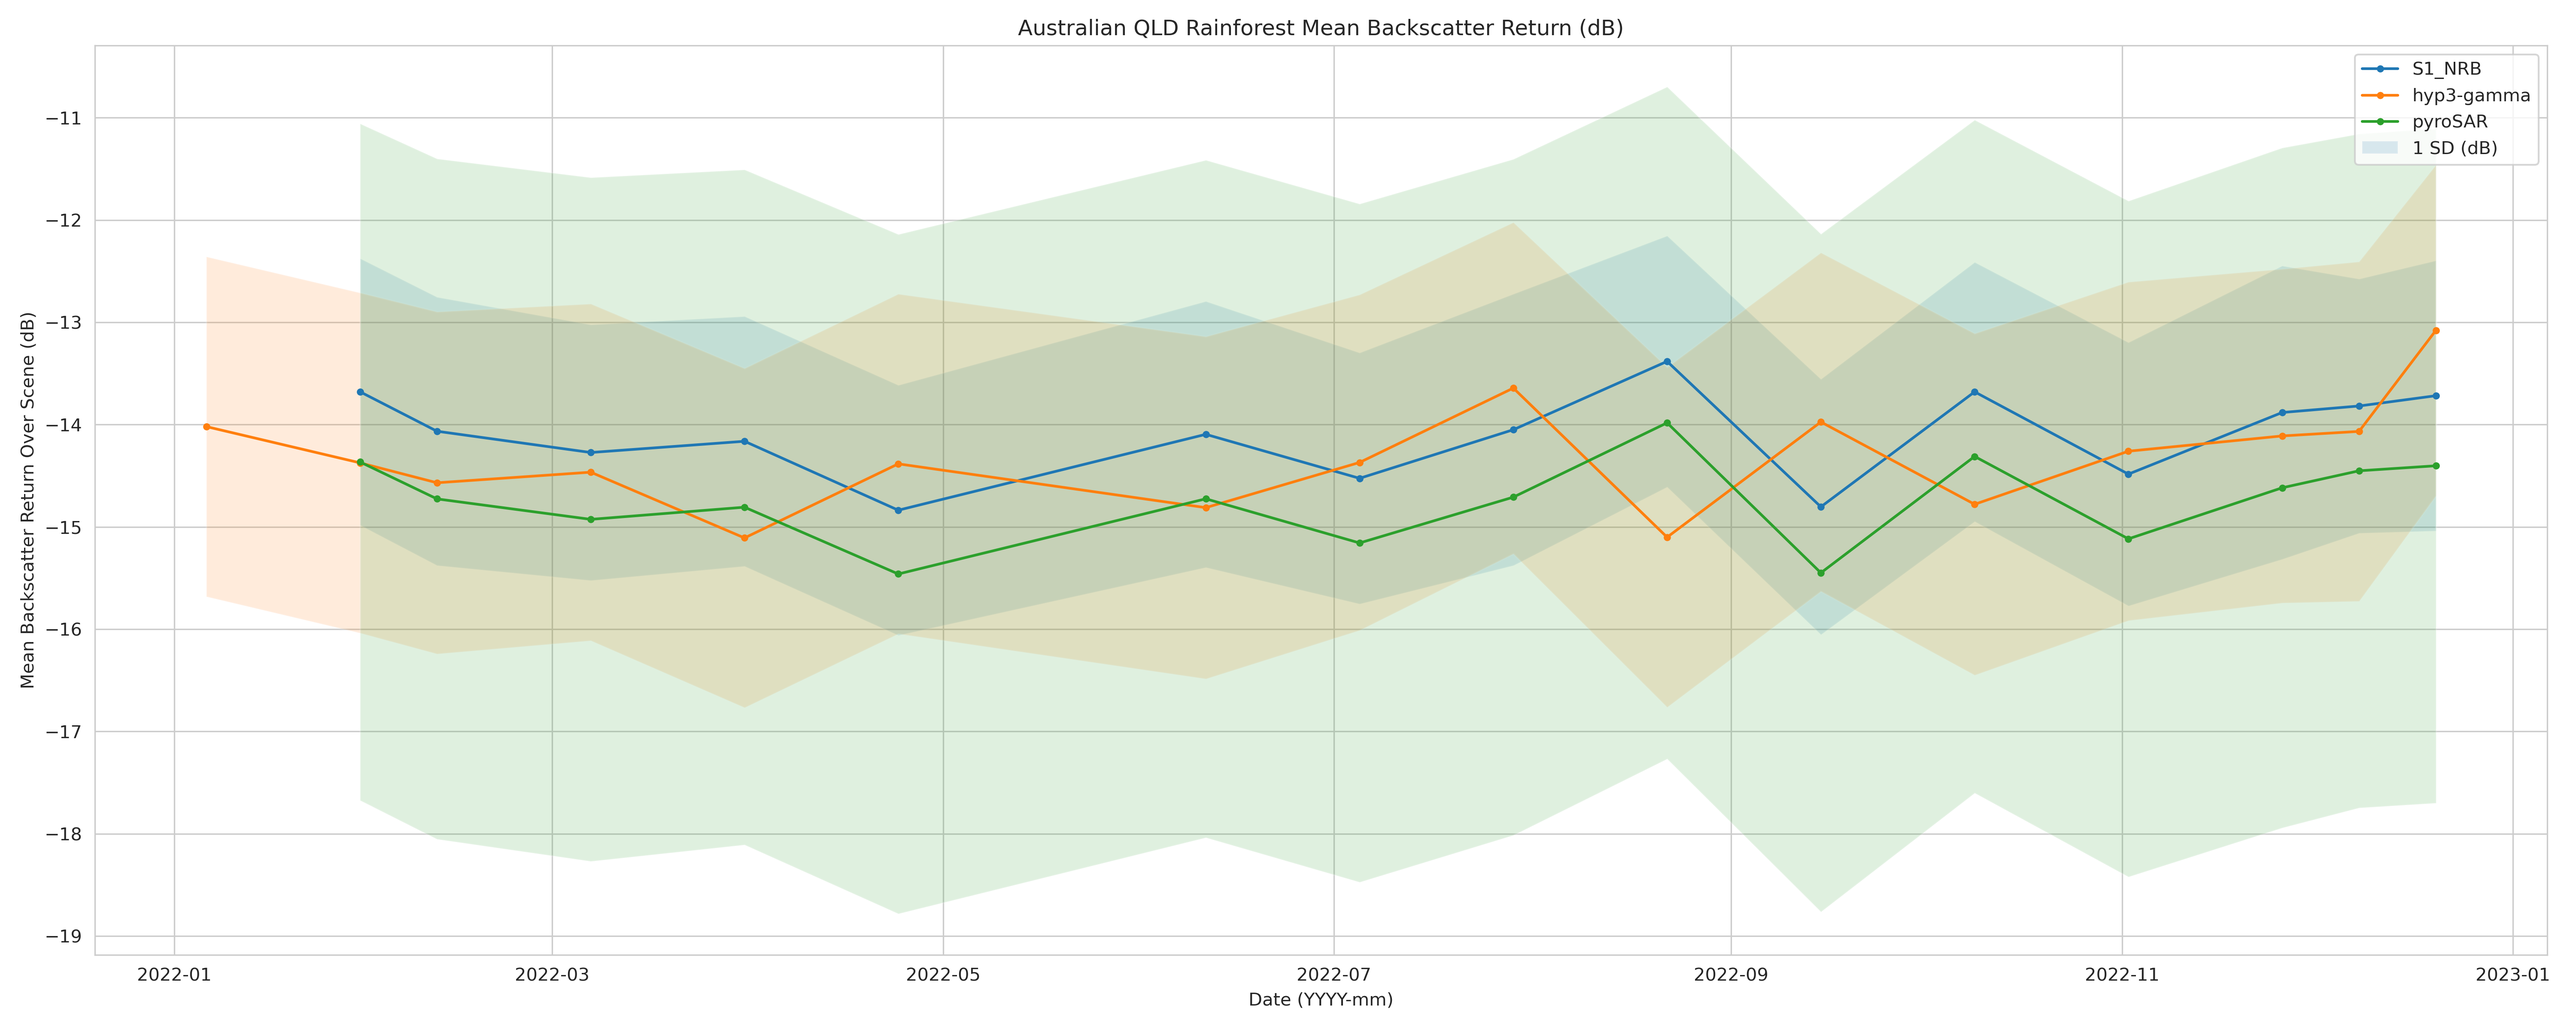
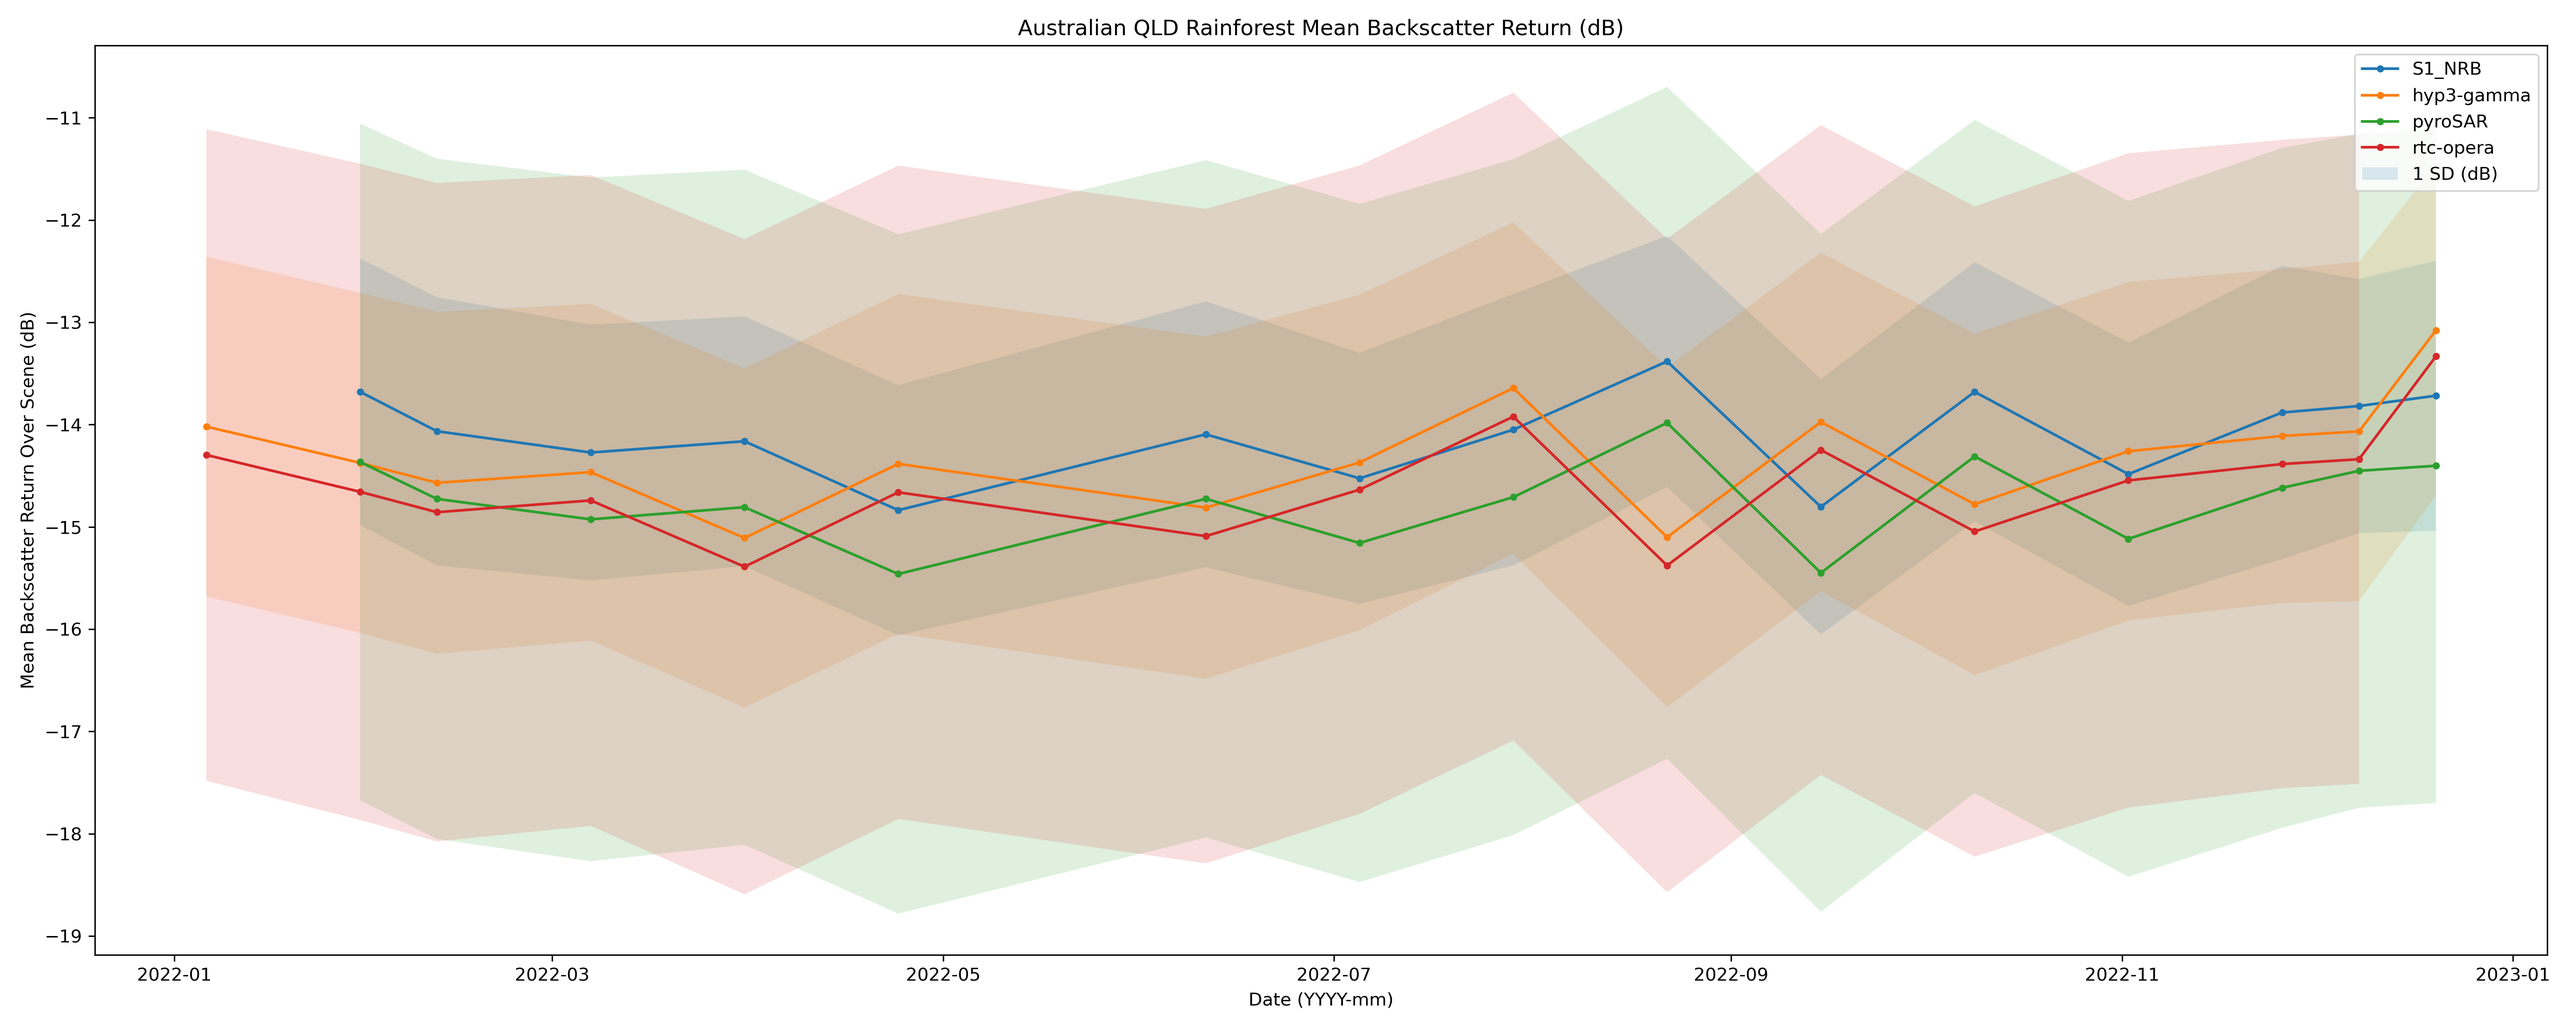
Update 09/07/2024

diff --git a/main.tex b/main.tex
@@ -11,6 +11,8 @@
 % Useful packages
 \usepackage{amsmath}
 \usepackage{graphicx}
+\usepackage{{booktabs}}
+\usepackage{multirow}
 \usepackage[colorlinks=true, allcolors=blue]{hyperref}
 
 \title{SAR Software Comparison}
@@ -21,13 +23,72 @@
 
 \section{Radiometric Quality}
 \subsection{Expected Values}
-This test compares the backscatter return of various software against the expected value for a target landcover from literature. We perform our test over 16 scenes over Queensland. 
+If the software is calibrated correctly, the backscatter return should match the expected value for a target landcover from literature. We chose 16 observations over time for a test scene over a Queensland rainforest and plotted the mean and standard deviation of the pixels that are classified as rainforest in the DCCEEW landcover dataset.
 
-\begin{figure}[h!]
+\begin{figure}[ht]
 \centering
-\includegraphics[width=\textwidth]{rainforest_return.png}
-\caption{\label{fig:rainforest}This file was uploaded via the file-tree menu.}
+\includegraphics[width=0.9\textwidth]{rainforest_return.png}
+\caption{\label{fig:rainforestvh} Mean (line plot) and standard deviation (shaded around the mean) VH backscatter return over time for the QLD rainforest test site. The values fall in the expected range of -15 to -12 dB literature.}
 \end{figure}
+
+\begin{figure}[ht]
+\centering
+\includegraphics[width=0.9\textwidth]{rainforest_return_VV.png}
+\caption{\label{fig:rainforestvv} Same as Figure \ref{fig:rainforestvh} for VV polarisation. The values fall in the expected range of -9 to -6 dB from literature.}
+\end{figure}
+
+\section{Geometric Quality}
+\subsection{Incident Angle Gradient}
+
+\begin{figure}[ht]
+\centering
+\includegraphics[width=\textwidth]{slope.png}
+\caption{\label{fig:slope}}
+\end{figure}
+
+\begin{figure}[ht]
+\centering
+\includegraphics[width=\textwidth]{CV.png}
+\caption{\label{fig:CV}}
+\end{figure}
+
+\section{Tabulated Summary of Results}
+
+\begin{tabular}{lllrrr}
+Software & Season & Polarisation & Mean (dB) & CV & Slope \\
+\multirow[c]{8}{*}{S1-NRB} & \multirow[c]{2}{*}{Autumn} & VH & -13.85 & 0.30 & -3.67E-05 \\
+ &  & VV & -7.37 & 0.36 & -7.27E-04 \\
+ & \multirow[c]{2}{*}{Spring} & VH & -14.12 & 0.31 & -2.17E-05 \\
+ &  & VV & -7.67 & 0.35 & -5.73E-04 \\
+ & \multirow[c]{2}{*}{Summer} & VH & -14.12 & 0.30 & -4.58E-05 \\
+ &  & VV & -7.62 & 0.34 & -6.55E-04 \\
+ & \multirow[c]{2}{*}{Winter} & VH & -14.24 & 0.29 & -4.87E-05 \\
+ &  & VV & -7.62 & 0.34 & -8.65E-04 \\
+\multirow[c]{8}{*}{hyp3-gamma} & \multirow[c]{2}{*}{Autumn} & VH & -14.15 & 0.44 & -5.33E-04 \\
+ &  & VV & -7.65 & 0.66 & -3.75E-02 \\
+ & \multirow[c]{2}{*}{Spring} & VH & -14.45 & 0.45 & 9.29E-05 \\
+ &  & VV & -7.97 & 0.68 & -3.03E-02 \\
+ & \multirow[c]{2}{*}{Summer} & VH & -14.15 & 0.44 & 3.82E-04 \\
+ &  & VV & -7.73 & 0.67 & -2.66E-02 \\
+ & \multirow[c]{2}{*}{Winter} & VH & -14.52 & 0.45 & -8.61E-04 \\
+ &  & VV & -7.89 & 0.66 & -4.12E-02 \\
+\multirow[c]{8}{*}{pyrosar} & \multirow[c]{2}{*}{Autumn} & VH & -14.49 & 1.06 & 8.02E-04 \\
+ &  & VV & -8.02 & 1.58 & 3.58E-03 \\
+ & \multirow[c]{2}{*}{Spring} & VH & -14.80 & 1.00 & 7.54E-04 \\
+ &  & VV & -8.33 & 1.37 & 3.30E-03 \\
+ & \multirow[c]{2}{*}{Summer} & VH & -14.76 & 1.00 & 7.52E-04 \\
+ &  & VV & -8.26 & 1.37 & 3.43E-03 \\
+ & \multirow[c]{2}{*}{Winter} & VH & -14.87 & 1.09 & 7.33E-04 \\
+ &  & VV & -8.26 & 1.60 & 3.35E-03 \\
+\multirow[c]{8}{*}{rtc-opera} & \multirow[c]{2}{*}{Autumn} & VH & -14.42 & 0.99 & 6.13E-04 \\
+ &  & VV & -7.95 & 1.55 & 2.59E-03 \\
+ & \multirow[c]{2}{*}{Spring} & VH & -14.73 & 1.01 & 5.84E-04 \\
+ &  & VV & -8.26 & 1.60 & 2.42E-03 \\
+ & \multirow[c]{2}{*}{Summer} & VH & -14.42 & 1.00 & 6.21E-04 \\
+ &  & VV & -8.02 & 1.60 & 2.67E-03 \\
+ & \multirow[c]{2}{*}{Winter} & VH & -14.80 & 1.04 & 5.68E-04 \\
+ &  & VV & -8.19 & 1.65 & 2.43E-03 \\
+\end{tabular}
 
 \subsection{How to add Citations and a References List}
 
